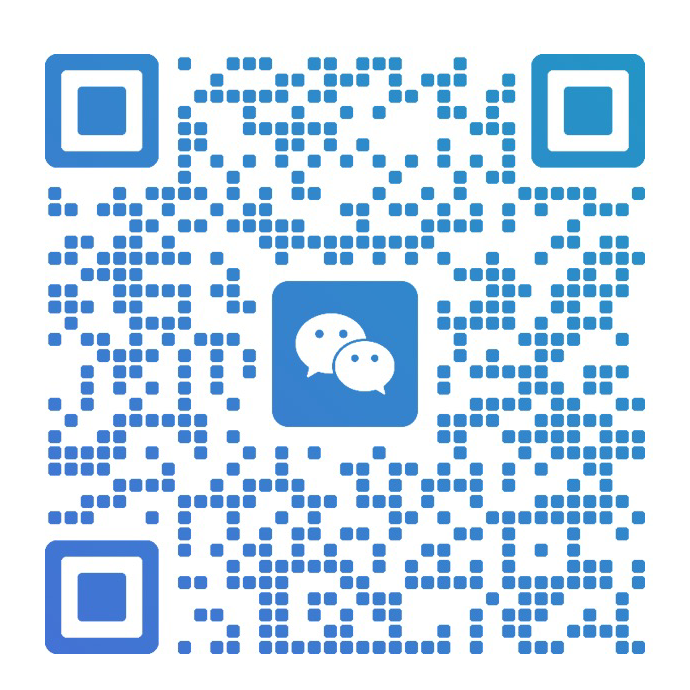
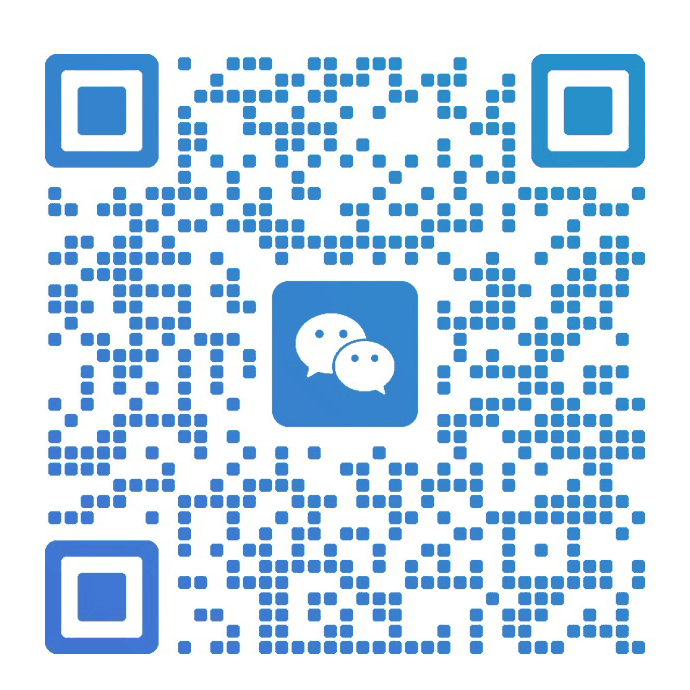
⚡ perf(images): publish optimized homepage assets
Serve right-sized WebP derivatives and defer the WeChat QR request while keeping the public projection source-free.

diff --git a/index.html b/index.html
@@ -193,12 +193,15 @@
                 role="tooltip"
               >
                 <span class="visually-hidden">Preview of Junhao Hou's WeChat QR code.</span>
+                <!-- Source: local-only assets/images/source/wechat-qr-original.png; the public 690 x 690 PNG keeps module geometry and applies palette-only lossless encoding. -->
                 <img
-                  src="assets/images/wechat-qr.png"
+                  data-wechat-qr
+                  data-src="assets/images/wechat-qr.png"
                   alt=""
                   width="690"
                   height="690"
                   loading="lazy"
+                  decoding="async"
                 >
               </span>
             </span>
@@ -217,13 +220,16 @@
               alt=""
               width="300"
               height="400"
+              decoding="async"
             >
+            <!-- Source: supplied assets/images/source/mob.png; the public 400 x 400 WebP derivative uses deterministic high-quality downsampling without altering the illustration. -->
             <img
               class="profile-portrait__image profile-portrait__image--alternate"
-              src="assets/images/mob.png"
+              src="assets/images/mob.webp"
               alt=""
-              width="500"
-              height="500"
+              width="400"
+              height="400"
+              decoding="async"
               aria-hidden="true"
             >
           </figure>
@@ -329,7 +335,7 @@
           <!-- PUBLICATION 1: newest public work first. -->
           <article class="publication">
             <div class="publication-media-cell">
-              <!-- Source: author-owned assets/images/source/hifi-brep.pdf; the complete twelve-model CAD gallery is rendered intact, scaled without cropping, and centered on a white 1600 x 1600 square. -->
+              <!-- Source: author-owned assets/images/source/hifi-brep.pdf; the complete twelve-model CAD gallery remains preserved as the 1600 x 1600 composition in assets/images/source/publications/hifi-brep-1600.png, while this public derivative is a 320 x 320 lossless WebP scaled without cropping. -->
               <div class="publication-media" data-publication-media>
               <a
                 class="publication-media__link"
@@ -339,10 +345,11 @@
                 aria-label="Open the HiFi-BRep paper"
               >
                 <img
-                  src="assets/images/publications/hifi-brep.png"
+                  src="assets/images/publications/hifi-brep.webp"
                   alt="HiFi-BRep gallery of twelve translucent cyan CAD parts with varied topology and geometry"
-                  width="1600"
-                  height="1600"
+                  width="320"
+                  height="320"
+                  decoding="async"
                 >
               </a>
               </div>
@@ -382,7 +389,7 @@
           <!-- PUBLICATION 2 -->
           <article class="publication">
             <div class="publication-media-cell">
-              <!-- Source: author-owned assets/images/source/brep-gd.pdf; the complete six-panel face-point and edge-point diffusion figure is rendered intact, scaled without cropping, and centered on a white 1600 x 1600 square. -->
+              <!-- Source: author-owned assets/images/source/brep-gd.pdf; the complete six-panel face-point and edge-point diffusion figure remains preserved as the 1600 x 1600 composition in assets/images/source/publications/brep-gd-1600.png, while this public derivative is a 320 x 320 lossless WebP scaled without cropping. -->
               <div class="publication-media" data-publication-media>
               <a
                 class="publication-media__link"
@@ -392,11 +399,12 @@
                 aria-label="Open the BRep-GD paper"
               >
                 <img
-                  src="assets/images/publications/brep-gd.png"
+                  src="assets/images/publications/brep-gd.webp"
                   alt="BRep-GD diffusion progression from noisy face and edge point sets to a structured hexagonal CAD part"
-                  width="1600"
-                  height="1600"
+                  width="320"
+                  height="320"
                   loading="lazy"
+                  decoding="async"
                 >
               </a>
               </div>
@@ -430,7 +438,7 @@
           <!-- PUBLICATION 3 -->
           <article class="publication">
             <div class="publication-media-cell">
-              <!-- Source: author-owned assets/images/source/drawing2cad.pdf; its three beige/green CAD pairs are cropped from the vector figure, rearranged from a 3 x 2 strip to a paired 2 x 3 grid without altering the models, and centered on a white 1600 x 1600 square. -->
+              <!-- Source: author-owned assets/images/source/drawing2cad.pdf; its three beige/green CAD pairs remain preserved as the 1600 x 1600 composition in assets/images/source/publications/drawing2cad-1600.png, while this public derivative is a 320 x 320 lossless WebP scaled without cropping. -->
               <div class="publication-media" data-publication-media>
               <a
                 class="publication-media__link"
@@ -440,11 +448,12 @@
                 aria-label="Open the Drawing2CAD paper"
               >
                 <img
-                  src="assets/images/publications/drawing2cad.png"
+                  src="assets/images/publications/drawing2cad.webp"
                   alt="Drawing2CAD paired beige and green CAD models of a stepped shaft, hexagonal part, and bracket"
-                  width="1600"
-                  height="1600"
+                  width="320"
+                  height="320"
                   loading="lazy"
+                  decoding="async"
                 >
               </a>
               </div>
@@ -486,7 +495,7 @@
           <!-- PUBLICATION 4 -->
           <article class="publication">
             <div class="publication-media-cell">
-              <!-- Source: author-owned assets/images/source/brep-sub3.pdf; the complete topology graph is cropped from the vector figure, its thumbnail-illegible legends are omitted, and the unaltered graph is centered on a white 1600 x 1600 square. -->
+              <!-- Source: author-owned assets/images/source/brep-sub3.pdf; the complete topology graph remains preserved as the 1600 x 1600 composition in assets/images/source/publications/fus-gcn-1600.jpg, while this public derivative is a 320 x 320 lossless WebP scaled without cropping. -->
               <div class="publication-media" data-publication-media>
               <a
                 class="publication-media__link"
@@ -496,11 +505,12 @@
                 aria-label="Open the FuS-GCN paper"
               >
                 <img
-                  src="assets/images/publications/fus-gcn.jpg"
+                  src="assets/images/publications/fus-gcn.webp"
                   alt="FuS-GCN B-rep subgraph with planar, cylindrical, and extrusion surface nodes connected by line and circle edges"
-                  width="1600"
-                  height="1600"
+                  width="320"
+                  height="320"
                   loading="lazy"
+                  decoding="async"
                 >
               </a>
               </div>

diff --git a/script/homepage.js b/script/homepage.js
@@ -5,6 +5,7 @@
   const finePointer = window.matchMedia("(hover: hover) and (pointer: fine)");
   const initializedRegions = new WeakSet();
   let emailFeedbackTimer;
+  let wechatQrLoadPromise;
 
   const motionPreviewAllowed = () => finePointer.matches && !reducedMotion.matches;
 
@@ -187,10 +188,65 @@
   const setupWechatPopover = () => {
     const button = document.querySelector("[data-wechat-toggle]");
     const contact = button?.closest(".profile-contact--wechat");
+    const qrImage = contact?.querySelector("[data-wechat-qr]");
 
     if (!button || !contact) {
       return;
     }
+
+    const startQrLoad = () => {
+      if (!qrImage || wechatQrLoadPromise) {
+        return wechatQrLoadPromise;
+      }
+
+      const source = qrImage.dataset.src;
+      if (!source) {
+        return undefined;
+      }
+
+      qrImage.loading = "eager";
+      qrImage.src = source;
+      wechatQrLoadPromise = new Promise((resolve) => {
+        const finish = () => {
+          qrImage.removeEventListener("load", finish);
+          qrImage.removeEventListener("error", finish);
+          resolve();
+        };
+
+        qrImage.addEventListener("load", finish);
+        qrImage.addEventListener("error", finish);
+        if (qrImage.complete) {
+          finish();
+        }
+      }).then(() => {
+        if (typeof qrImage.decode === "function") {
+          return qrImage.decode().catch(() => undefined);
+        }
+        return undefined;
+      });
+
+      return wechatQrLoadPromise;
+    };
+
+    const scheduleIdleQrLoad = () => {
+      const preload = () => {
+        if (typeof window.requestIdleCallback === "function") {
+          window.requestIdleCallback(() => {
+            void startQrLoad();
+          }, { timeout: 2000 });
+        } else {
+          window.setTimeout(() => {
+            void startQrLoad();
+          }, 0);
+        }
+      };
+
+      if (document.readyState === "complete") {
+        preload();
+      } else {
+        window.addEventListener("load", preload, { once: true });
+      }
+    };
 
     const setOpen = (open, dismissed = false) => {
       contact.classList.toggle("is-open", open);
@@ -203,6 +259,7 @@
     };
 
     button.addEventListener("click", () => {
+      void startQrLoad();
       if (finePointer.matches) {
         return;
       }
@@ -212,6 +269,7 @@
     });
 
     contact.addEventListener("pointerenter", () => {
+      void startQrLoad();
       contact.classList.remove("is-dismissed");
     });
 
@@ -222,6 +280,7 @@
     });
 
     button.addEventListener("focus", () => {
+      void startQrLoad();
       contact.classList.remove("is-dismissed");
     });
 
@@ -251,6 +310,8 @@
     onMediaQueryChange(finePointer, () => {
       setOpen(false);
     });
+
+    scheduleIdleQrLoad();
   };
 
   const stopAllPreviews = () => {
